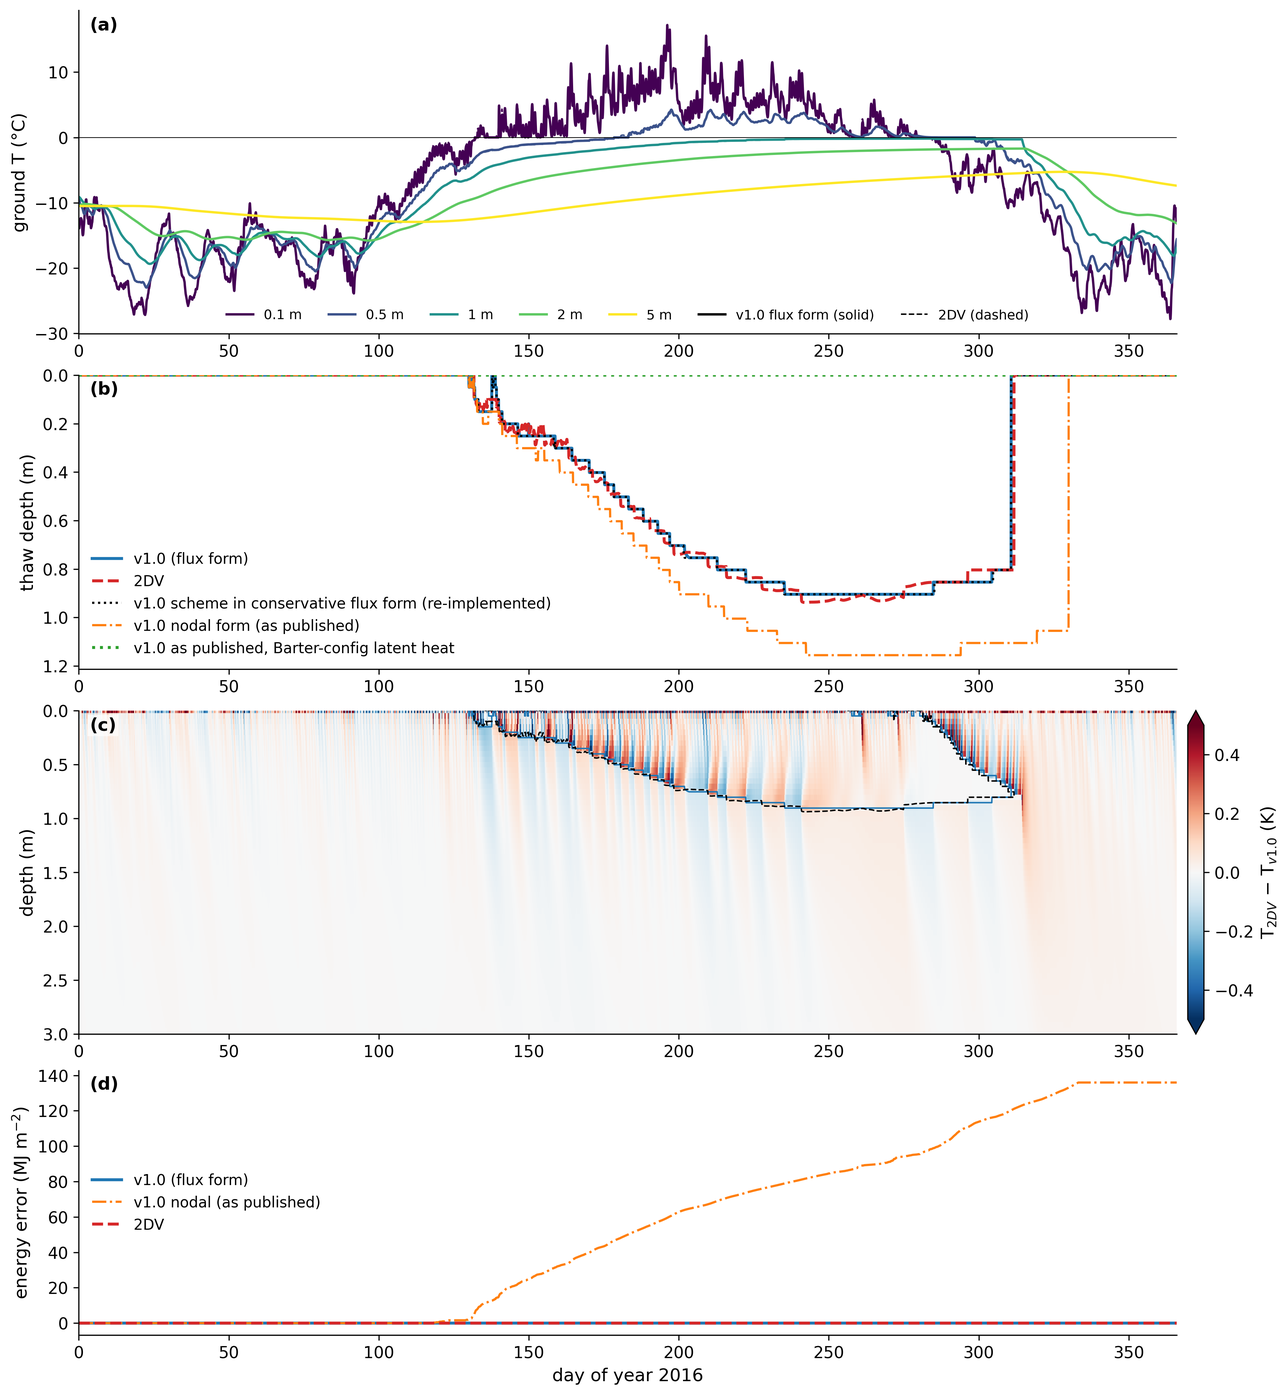
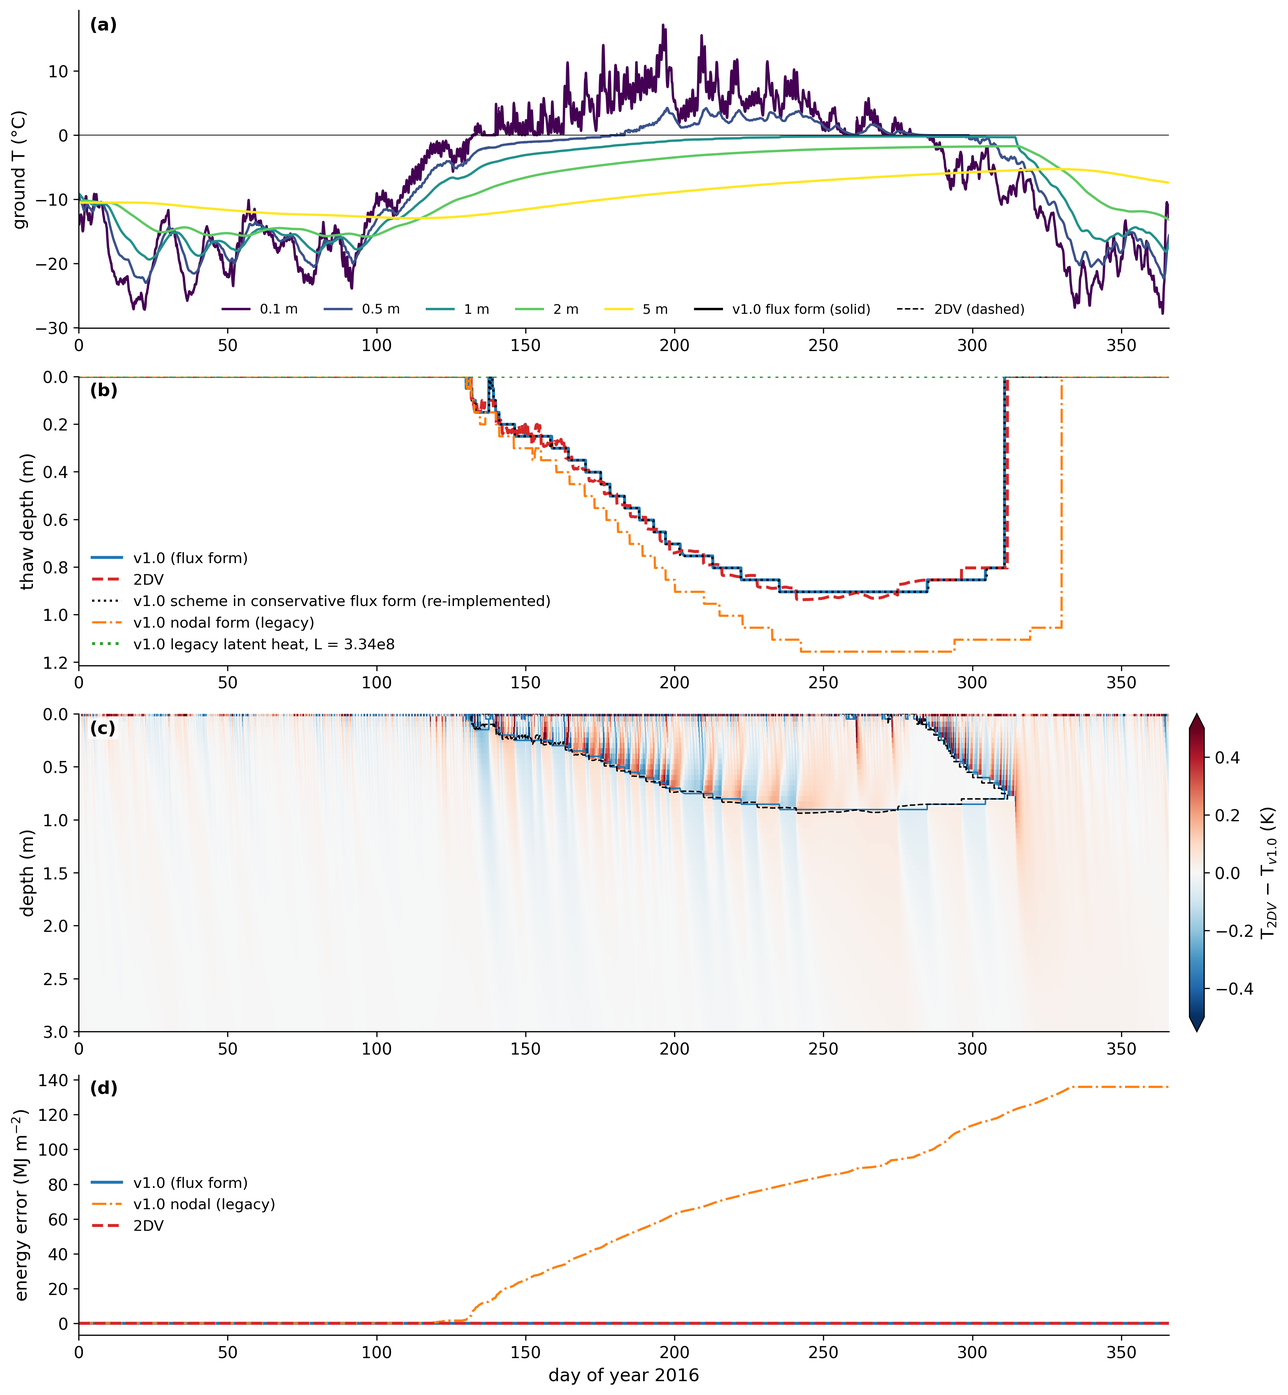
Docs and examples: neutral wording for v1.0 legacy options
Describe v1.0's nodal conduction and per-mass latent heat as legacy
options (conduction_form: nodal, latent_heat_legacy: true) and rename the
latent-heat units check to v10_case_legacy_latent. Regenerate the 1D
comparison figure with the new labels.

Claude-Session: https://claude.ai/code/session_01WjVazgrM8ersm1H2vwoVjU

diff --git a/examples/2dv/compare_1d/run_compare_1d.py b/examples/2dv/compare_1d/run_compare_1d.py
@@ -11,17 +11,17 @@ Both models get the same one-year ERA5 forcing (2016), the same soil and the sam
 
 So only the numerics differ: v1.0 is explicit FTCS on nodes (dt = 120 s, 200 nodes, mushy k =
 mean of frozen and thawed), now by default in conservative flux form d/dz(k dT/dz) with harmonic
-face k (thermal.conduction_form = flux); the published v1.0 used nodal k * d2T/dz2
+face k (thermal.conduction_form = flux); v1.0 legacy uses nodal k * d2T/dz2
 (conduction_form = nodal, run v10_case_nodal). The 2DV model is implicit finite volume (dt = 1 h,
 200 cells, conservative flux form, mushy k from the ice/water mix).
 
 To attribute the difference, v1.0's scheme is also re-implemented here twice: exactly as coded in
 the nodal form (it reproduces the nodal v1.0 output to ~0.03 K), and with only the conduction term
-changed to the conservative flux form (arithmetic face k). A further line shows v1.0 with the latent
-heat as set in the published Barter Island case-study config.
+changed to the conservative flux form (arithmetic face k). A further line shows v1.0 with the legacy
+latent-heat convention and L_water_ice = 3.34e8 (a units check).
 
 Run run_v10_column.py (flux), run_v10_column.py v10_case_nodal (nodal) and optionally
-run_v10_column_barter_latent.py first; they write the v1.0 output.
+run_v10_column_legacy_latent.py first; they write the v1.0 output.
 Outputs (in output/compare_1d/): compare_1d.png, compare_1d_summary.txt, twodv_column.nc.
 """
 
@@ -45,7 +45,7 @@ from arctic_xbeach.thermal2dv.forcing import Forcing  # noqa: E402
 OUT_DIR = REPO / "examples" / "2dv" / "output" / "compare_1d"
 V10_NC = OUT_DIR / "v10_column.nc"                           # v1.0, matched properties, flux-form conduction
 V10_NODAL_NC = OUT_DIR / "v10_column_nodal.nc"               # v1.0, matched properties, legacy nodal conduction (optional)
-V10_BARTER_NC = OUT_DIR / "v10_column_barter_latent.nc"      # v1.0, latent heat as in the Barter config (optional)
+V10_LEGACY_LATENT_NC = OUT_DIR / "v10_column_legacy_latent.nc"  # v1.0, legacy latent-heat convention (optional)
 V10_RESULTS = REPO / "examples" / "2dv" / "compare_1d" / "v10_case" / "results" / "results.nc"  # v1.0 native output
 V10_NODAL_RESULTS = REPO / "examples" / "2dv" / "compare_1d" / "v10_case_nodal" / "results" / "results.nc"
 PHI_S, PHI_H2O = 0.6, 0.4
@@ -181,10 +181,10 @@ def main():
     T2_on_v = np.array([np.interp(depth_v, d2.depth.values, row) for row in d2.T.values])
     thaw_v10 = thaw_bottom(v10.T.values, depth_v)
     thaw_2dv = thaw_bottom(T2_on_v, depth_v)
-    thaw_barter = None
-    if V10_BARTER_NC.exists():
-        vb = xr.load_dataset(V10_BARTER_NC)
-        thaw_barter = thaw_bottom(vb.T.values, vb.depth.values)
+    thaw_legacy_latent = None
+    if V10_LEGACY_LATENT_NC.exists():
+        vb = xr.load_dataset(V10_LEGACY_LATENT_NC)
+        thaw_legacy_latent = thaw_bottom(vb.T.values, vb.depth.values)
     e10 = v10_energy_error(v10)
     vn = xr.load_dataset(V10_NODAL_NC) if V10_NODAL_NC.exists() else None
     thaw_nodal = thaw_bottom(vn.T.values, vn.depth.values) if vn is not None else None
@@ -203,8 +203,8 @@ def main():
         f"v1.0: {v10.attrs.get('wall_time_thermal_update_s', np.nan):.0f} s in the thermal update "
         f"({v10.attrs.get('wall_time_main_s', np.nan):.0f} s in total, dt = 120 s)",
         f"max thaw depth (bottom of the thawed layer): v1.0 {thaw_v10.max():.2f} m, 2DV {thaw_2dv.max():.2f} m"
-        + (f", v1.0 nodal (as published) {thaw_nodal.max():.2f} m" if thaw_nodal is not None else "")
-        + (f", v1.0 with the published Barter-config latent heat {thaw_barter.max():.2f} m" if thaw_barter is not None else ""),
+        + (f", v1.0 nodal (legacy) {thaw_nodal.max():.2f} m" if thaw_nodal is not None else "")
+        + (f", v1.0 legacy latent heat (L = 3.34e8) {thaw_legacy_latent.max():.2f} m" if thaw_legacy_latent is not None else ""),
     ]
     if vn is not None:
         lines.append(f"v1.0 nodal scheme re-implemented as coded: max |T - v1.0 nodal output| = "
@@ -245,9 +245,9 @@ def main():
     ax.plot(doy, thaw_2dv, "C3--", lw=2, label="2DV")
     ax.plot(doy, thaw_cons, "k:", lw=1.5, label="v1.0 scheme in conservative flux form (re-implemented)")
     if thaw_nodal is not None:
-        ax.plot(doy, thaw_nodal, "C1-.", lw=1.5, label="v1.0 nodal form (as published)")
-    if thaw_barter is not None:
-        ax.plot(doy, thaw_barter, "C2:", lw=2, label="v1.0 as published, Barter-config latent heat")
+        ax.plot(doy, thaw_nodal, "C1-.", lw=1.5, label="v1.0 nodal form (legacy)")
+    if thaw_legacy_latent is not None:
+        ax.plot(doy, thaw_legacy_latent, "C2:", lw=2, label="v1.0 legacy latent heat, L = 3.34e8")
     ax.set(ylabel="thaw depth (m)", ylim=(0, None))
     ax.invert_yaxis()
     ax.legend(frameon=False, loc="lower left")
@@ -266,7 +266,7 @@ def main():
     if e10 is not None:
         ax.plot(doy[:len(e10)], e10 / 1e6, "C0-", lw=2, label="v1.0 (flux form)")
     if e10_nodal is not None:
-        ax.plot(doy[:len(e10_nodal)], e10_nodal / 1e6, "C1-.", lw=1.5, label="v1.0 nodal (as published)")
+        ax.plot(doy[:len(e10_nodal)], e10_nodal / 1e6, "C1-.", lw=1.5, label="v1.0 nodal (legacy)")
     ax.plot(doy, np.zeros_like(doy) + d2.attrs["energy_budget_error_J"] / 1e6, "C3--", lw=2, label="2DV")
     ax.set(xlabel="day of year 2016", ylabel="energy error (MJ m$^{-2}$)")
     ax.legend(frameon=False, loc="center left")

diff --git a/examples/2dv/compare_1d/run_v10_column.py b/examples/2dv/compare_1d/run_v10_column.py
@@ -3,7 +3,7 @@
 
 The case (CASE_NAME/config.yaml) is driven through the normal v1.0 path (Simulation + main),
 with XBeach off: v10_case uses the conservative flux-form conduction (default), v10_case_nodal
-the legacy nodal form (v1.0 as published). The v1.0 source is not modified by this script. The only intervention is a diagnostic
+the legacy nodal form (v1.0 legacy). The v1.0 source is not modified by this script. The only intervention is a diagnostic
 observer around `sim.thermal_update` (instance attribute) that calls the original method
 unchanged and records, per wrapper hour:
   - the initial temperature profile (before the first sub-step),
@@ -27,8 +27,8 @@ SCRIPT_DIR = Path(__file__).resolve().parent
 PROJ_DIR = SCRIPT_DIR.parents[2]                      # worktree root (contains main.py)
 CASE_NAME = "v10_case"                                # case folder; optional override: python run_v10_column.py v10_case_nodal
 OUT_NAMES = {"v10_case": "v10_column.nc",             # flux-form conduction (default)
-             "v10_case_nodal": "v10_column_nodal.nc", # legacy nodal conduction (v1.0 as published)
-             "v10_case_barter_latent": "v10_column_barter_latent.nc"}
+             "v10_case_nodal": "v10_column_nodal.nc", # legacy nodal conduction (v1.0 legacy)
+             "v10_case_legacy_latent": "v10_column_legacy_latent.nc"}
 if len(sys.argv) > 1:
     CASE_NAME = sys.argv[1]
 CASE_DIR = SCRIPT_DIR / CASE_NAME                     # config.yaml, x.grd, bed.dep, ne_layer.txt

diff --git a/examples/2dv/compare_1d/run_v10_column_legacy_latent.py b/examples/2dv/compare_1d/run_v10_column_legacy_latent.py
@@ -24,10 +24,10 @@ import xarray as xr
 # === CONFIGURATION ===
 SCRIPT_DIR = Path(__file__).resolve().parent
 PROJ_DIR = SCRIPT_DIR.parents[2]                      # worktree root (contains main.py)
-CASE_DIR = SCRIPT_DIR / "v10_case_barter_latent"                    # config.yaml, x.grd, bed.dep, ne_layer.txt
+CASE_DIR = SCRIPT_DIR / "v10_case_legacy_latent"                    # config.yaml, x.grd, bed.dep, ne_layer.txt
 ERA5_PATH = Path("D:/Git/arctic-xbeach/examples/case_studies/barter_island/database/era5.csv")  # full ERA5 series
 STORM_FILE = CASE_DIR / "storms_dry.csv"              # written below: WL = 0, Hs = 0 every hour
-OUT_NC = PROJ_DIR / "examples" / "2dv" / "output" / "compare_1d" / "v10_column_barter_latent.nc"
+OUT_NC = PROJ_DIR / "examples" / "2dv" / "output" / "compare_1d" / "v10_column_legacy_latent.nc"
 X_INDEX = 1                                           # middle x-point (edge point 0 always gets thaw_depth = 0 in v1.0)
 PRINT_TO_SCREEN = False                               # v1.0 progress log (always written to v10_case/run.log)
 

diff --git a/arctic_xbeach/model.py b/arctic_xbeach/model.py
@@ -1157,7 +1157,7 @@ class Simulation():
         """Latent heat per unit mass of soil [J/kg] for ice/water content nb and bulk density rho_soil.
 
         Default: L_f * rho_water * nb / rho_soil, i.e. rho_water * L_f * nb per unit volume.
-        thermal.latent_heat_legacy = true: L_water_ice * nb (v1.0 as published; per unit volume
+        thermal.latent_heat_legacy = true: L_water_ice * nb (v1.0 legacy; per unit volume
         this is rho_soil * L_water_ice * nb).
         """
         if self.config.thermal.get("latent_heat_legacy", False):

diff --git a/examples/2dv/compare_1d/run_analytical_v10.py b/examples/2dv/compare_1d/run_analytical_v10.py
@@ -9,7 +9,7 @@ Cases (conceptual mode: constant air temperature, no radiation, XBeach off, 1 ye
                            config read from the main checkout (not in this worktree)
 
 Variants:
-    legacy   thermal.conduction_form = nodal, latent_heat_legacy = true (v1.0 as published)
+    legacy   thermal.conduction_form = nodal, latent_heat_legacy = true (v1.0 legacy)
     new      thermal.conduction_form = flux,  latent_heat_legacy = false (defaults)
 
 The "Dirichlet" cases are driven by v1.0's sensible heat flux h (T_air - T_s) with ERA5 wind

diff --git a/tests/test_review_fixes.py b/tests/test_review_fixes.py
@@ -1,5 +1,4 @@
-"""Regression tests for the code review of 26 September 2026 (research/2026-09-26_2dv-temperature-
-code-review.md): conservative collapse on stretched grids, connected niches, grid bounds, brine
+"""Regression tests for the internal code review of 26 September 2026: conservative collapse on stretched grids, connected niches, grid bounds, brine
 source connectivity, atomic steps, air-exposed faces and Recorder validation."""
 
 import numpy as np

diff --git a/docs/2dv_design.md b/docs/2dv_design.md
@@ -13,9 +13,9 @@ No existing code does what you describe. That is: one cross-shore grid in which 
 - **ACE** (Sandia) is 2DV permafrost plus mechanics. It does not resolve water temperature, it prescribes the face temperature as a Dirichlet condition, and it uses explicit time stepping [V].
 - **thermalFOAM** is enthalpy–porosity with ablation, but only at niche and flume scale [V].
 - **CryoGrid** has the right per-cell fraction and enthalpy state, but it is 1D [V].
-- **Frederick & Buffett** is a 2D temperature–salinity transect, but at shelf scale [per landscape report].
+- **Frederick & Buffett** is a 2D temperature–salinity transect, but at shelf scale [U].
 
-This would therefore be new, and a defensible GMD v2 or proposal deliverable, not a reinvention.
+This would therefore be new, not a reinvention.
 
 The literature points to one design, and it is buildable in Python (numpy and scipy) at a cost comparable to one XBeach storm per simulated year:
 
@@ -131,7 +131,7 @@ For the `smooth` and `saline` curves, use Newton on T with Jacobian c + L_v dθ_
 
 ### 4.3 Energy bookkeeping
 
-Log a global budget every step: ΔH_domain versus the sum of surface, geothermal, relaxation, advective and cell-removal fluxes. This catches remapping and wet/dry leaks, which v1.0's re-interpolation could not detect. It is also a strong GMD selling point.
+Log a global budget every step: ΔH_domain versus the sum of surface, geothermal, relaxation, advective and cell-removal fluxes. This catches remapping and wet/dry leaks, which v1.0's re-interpolation could not detect.
 
 ---
 
@@ -148,7 +148,7 @@ Forcing is the same ERA5 set v1.0 already reads.
 - **Longwave.** ERA5 strd downward minus εσT_s⁴ with the **model's own surface temperature**, ε = 0.97 for water and 0.95–0.97 for soil [V: COARE 3.6]. Linearise implicitly: 4εσT³ goes on the diagonal.
 - **Sensible and latent heat over water.** Recompute from T2m, dewpoint, U10 and the model SST with bulk coefficients c_H = c_E = 1.3 × 10⁻³ [V: Delft3D-FLOW heat model 5 default; D-Flow FM]. **Do not use ERA5 sshf/slhf over water**: they are computed with ERA5's own 0.25° SST, and coastal cells blend land and ice [V reasoning in agent report; S]. Over land, keep the v1.0 options (Man 2023 sensible heat, ERA5 latent heat) so v1.0 calibration carries over.
 - **Sea ice.** In the resolved domain it emerges on its own (§3.1). The top water cells freeze, albedo switches on the ice fraction, and in water shallower than the ice thickness the ice grounds and couples the seabed to the atmosphere. That is the bottom-fast ice effect observed at Elson Lagoon [V: Overduin et al. 2012; Angelopoulos et al. 2019]. ERA5 sea-ice cover is still used for the XBeach gate and optionally for weighting offshore fluxes, Q = (1 − A)Q_ow + A Q_io [U].
-- **Snow** is deferred, but needed. It is the prime suspect for the v1.0 cold bias in RC1 point 2 (see landscape report §0). A single-layer ERA5 snow-depth insulation, the CryoGrid simple scheme, drops into the same top-flux slot.
+- **Snow** is deferred, but needed, because it controls winter cooling of the ground. A single-layer ERA5 snow-depth insulation, the CryoGrid simple scheme, drops into the same top-flux slot.
 
 ### 5.2 Water-column mixing and the large-scale ocean in a 2DV slice
 
@@ -204,7 +204,7 @@ Heat alone will not erode the bluff [V: Ravens et al. 2012; Barnhart et al. 2014
    - When it exceeds d_crit, collapse the column above. Options for d_crit:
      - a calibrated value, of the order of the niche depth observed before collapse at Drew Point;
      - Hoque & Pollard stability;
-     - a tensile threshold of about 100 kPa [U; landscape report].
+     - a tensile threshold of about 100 kPa [U].
    - Move the block's cells down into the niche and the toe with **their enthalpy conserved**. The fallen block then thaws in place and is removed by rules 1 and 3, which is how Barnhart's "block degradation" phase arises.
 3. **During XBeach events,** erosion is whatever XBeach removes above the non-erodible layer (§6).
 
@@ -220,7 +220,7 @@ Heat alone will not erode the bluff [V: Ravens et al. 2012; Barnhart et al. 2014
 
 | Quantity | Default | Range | Source |
 |---|---|---|---|
-| L_f; ρ_i; ρ_w | 3.34e5 J/kg; 917; 1000 (sea 1025) kg/m³ | — | [V] preprint Table 1 |
+| L_f; ρ_i; ρ_w | 3.34e5 J/kg; 917; 1000 (sea 1025) kg/m³ | — | [V] |
 | k_ice | 2.2 (2.07 at 0 °C, T-dependent: 9.828 exp(−0.0057 T[K])) | — | [V] Yen 1981 |
 | k_water; k_seawater | 0.57; 0.56 | — | [U]; Angelopoulos 2019 uses 0.57 [V] |
 | k_mineral (silt); k_quartz; k_organic; k_air | 2.9; 7.7; 0.25; 0.025 | 2.0–3.0 | [U] Johansen 1975; CryoGrid |
@@ -252,7 +252,7 @@ The event logic in `check_xbeach` (sea ice, runup threshold, weekly inter-storm 
   - Where Δzb(x) < 0, remove sediment fraction top-down from each column. Cells fully emptied become water or air; the enthalpy removed goes into the budget.
   - Where Δzb > 0, add sediment fraction at the local water temperature, thawed. This mirrors v1.0's `fill_value_top_water`.
   - During the event, K_t and h are taken from XBeach (H, u_rms, D_r).
-- **XBeach on Linux.** v1.0 launches XBeach through `run.bat` with `shell=True`. Replace that with `subprocess.run([exe, "params.txt"], cwd=...)` so SLURM ensembles work. The landscape report lists this for v1.1 anyway.
+- **XBeach on Linux.** v1.0 launches XBeach through `run.bat` with `shell=True`. Replace that with `subprocess.run([exe, "params.txt"], cwd=...)` so SLURM ensembles work.
 
 ---
 
@@ -273,7 +273,7 @@ Each step gates the next.
    - Comparison with the 2011 USGS Barter CTD (bottom water at 4.7 m, lagoon at 1.2 m).
 5. **Bluff melt.**
    - Lumped check against ArcticBeach: retreat ≈ h(T_w − T_m)/(L_c·height) when conduction into the block is small [V formula: Rolph et al. 2022].
-   - Omonigbehin et al. (2025) flume niche series (scale down the grid). Doing this also answers RC1 point 7.
+   - Omonigbehin et al. (2025) flume niche series (scale down the grid).
 6. **Field.**
    - Barter Island borehole temperatures and 2–3 yr shoreline retreat, run against v1.0.
    - Drew Point intercomparison with ACE (niche and block cycle, Bayat et al. 2026 calibration case on Zenodo [V]).
@@ -282,7 +282,7 @@ Each step gates the next.
 
 ## 8. Implementation plan
 
-Keep v1.0 intact for the GMD revision. Add a switch `thermal.model: "1d" | "2dv"`, so the `Simulation` API and `main.py` loop stay the same.
+Keep v1.0 intact. Add a switch `thermal.model: "1d" | "2dv"`, so the `Simulation` API and `main.py` loop stay the same.
 
 ```
 arctic_xbeach/
@@ -381,8 +381,9 @@ ice cell that melts part-way through the step therefore ends up above its meltin
   and it thaws 0.2 m deeper and refreezes 18 days later.
 - A replica of v1.0's scheme reproduces v1.0 to 0.03 K. The same replica in flux form reproduces
   the 2DV model.
-- For the v1.0 revision, the fix is a one-line change to face conductivities in `thermal_update`.
-  The latent-heat units in the case-study configs need checking as well (see the examples README).
+- In v1.0 the fix is a change to the face conductivities in `thermal_update`, now
+  `thermal.conduction_form: flux`. `L_water_ice` is now in J/kg; `latent_heat_legacy: true`
+  reproduces v1.0.
 
 ---
 
@@ -460,10 +461,10 @@ unfrozen sediment; the 2DV model owns heat, salt, ice, ablation and block failur
 1. **Field-scale h controls everything at the face.** Plausible values span 250 to more than 10⁴ W m⁻² K⁻¹, and lab-to-field transfer is untested. Above a few hundred, retreat is limited by contact time and matrix removal, so put effort into the wet/dry timing and removal rules as much as into h. Make h the first sensitivity parameter.
 2. **Alongshore physics in a 2DV slice.** Nearshore water temperature at Barter is set by lagoon outflow, alongshore currents and stratification. τ_flush and T_ref absorb all of it. Mitigate by forcing the calm-weather T_ref from observations (CTD, SST) and reporting τ_flush sensitivity. Note in the paper that this is a slice model.
 3. **Overhang versus a single-valued XBeach bed.** Niche geometry exists only in the thermal model, so block failure is a parameterised hand-off, not emergent. This is the same limitation as ACE and Barnhart, but say so.
-4. **No nearshore ocean data shallower than 10 m in the reanalyses.** T_ref construction becomes a site-specific calibration, which works against transferability (RC1 point 5).
+4. **No nearshore ocean data shallower than 10 m in the reanalyses.** T_ref construction becomes a site-specific calibration, which works against transferability.
 5. **Energy leaks at wet/dry switching and cell removal.** The global budget in §4.3 is the mitigation. Make it a test.
 6. **Solver cost is not the risk:** about 0.5–2 h per simulated year serial, trivially parallel over SLURM ensemble members. The risk is Python-side overhead in assembly. Vectorise assembly from the start; use numba only if profiling says so.
-7. **Scope versus the GMD revision.** Do not block the v1.0 revision on this. The snow layer, the revived Kobayashi h and the saline freezing point (landscape report §2d) help both versions and should come first.
+7. **Scope versus v1.0.** Do not block v1.0 development on this. The snow layer, the revived Kobayashi h and the saline freezing point help both versions and should come first.
 
 ---
 

diff --git a/examples/2dv/README.md b/examples/2dv/README.md
@@ -8,7 +8,7 @@ literature behind it are in `docs/2dv_design.md`.
 Run from the repository root with the project environment:
 
 ```bash
-python -m pytest tests                           # 57 tests (thermal, radiation, coupling, ERA5, review fixes), ~40 s
+python -m pytest tests                           # 58 tests (thermal, radiation, coupling, ERA5, review fixes), ~40 s
 python examples/2dv/run_analytical_suite.py      # analytical figure, ~1 min
 python examples/2dv/run_flume_block.py           # ~45 s
 python examples/2dv/run_bluff_niche.py           # ~1.5 min
@@ -78,7 +78,7 @@ to `examples/2dv/output/<case>/` (`*.nc` is git-ignored; the PNGs are committed)
 
 `test_coupling.py` (12) and `test_era5_forcing.py` (2) are described under *Coupling with XBeach*.
 
-`test_review_fixes.py` (15) covers the findings of the code review of 26 September 2026. Each of
+`test_review_fixes.py` (15) covers the findings of an internal code review (26 September 2026). Each of
 these tests fails on the code before the fix.
 - **Collapse is conservative on stretched grids.** Mineral, H2O, salt and energy are remapped by
   geometric overlap. Only the niche water the block displaces is logged as an exchange.
@@ -226,11 +226,11 @@ differ.
 
 ```bash
 python examples/2dv/compare_1d/run_v10_column.py                  # v1.0, ~5 min (needs the full ERA5 file)
-python examples/2dv/compare_1d/run_v10_column_barter_latent.py    # v1.0 with the Barter-config latent heat
+python examples/2dv/compare_1d/run_v10_column_legacy_latent.py    # v1.0, legacy latent-heat convention
 python examples/2dv/compare_1d/run_compare_1d.py                  # 2DV column, v1.0 scheme replicas, figure
 ```
 
-| | v1.0 as published (`conduction_form: nodal`) | 2DV | v1.0 fixed (`conduction_form: flux`, now the default) |
+| | v1.0 legacy (`conduction_form: nodal`) | 2DV | v1.0 fixed (`conduction_form: flux`, now the default) |
 |---|---|---|---|
 | Maximum thaw depth | 1.16 m | 0.94 m | 0.90 m |
 | Refreeze of the thawed layer | day 330 | day 312 | day 311 |
@@ -252,11 +252,10 @@ against 3.324 m analytic (legacy 2.819 m).
   - A re-implementation of v1.0's scheme reproduces its output to 0.03 K. Changing only the
     conduction term to the flux form gives the 2DV result (mean difference 0.001 K). The
     implicit time step and the mushy-zone treatment do not matter here; conservation does.
-- **Barter-config latent heat.** The Barter Island case-study config sets `L_water_ice:
-  334000000` with `rho_soil: None`. v1.0 stores enthalpy per unit mass and adds
-  `L_water_ice * nb` to it, so the effective latent heat is ρ_soil · L · nb ≈ 2215 × 3.34e8 ×
-  0.263 ≈ 1.9e11 J m⁻³, about 2200 times ρ_w L nb. Run with that setting, the column never thaws
-  in 2016: the surface sits at 0 °C all summer (green line).
+- **Latent-heat units.** `L_water_ice` is now in J/kg, and the volumetric latent heat is
+  ρ_w L nb. v1.0 stored enthalpy per unit mass and added `L_water_ice * nb` to it;
+  `latent_heat_legacy: true` reproduces that convention. `run_v10_column_legacy_latent.py` runs
+  the legacy convention with `L_water_ice: 334000000` as a units check (green line).
 
 Figure: `output/compare_1d/compare_1d.png`. It shows ground temperature at five depths, thaw
 depth, the 2DV − v1.0 temperature difference and the energy budget error.
